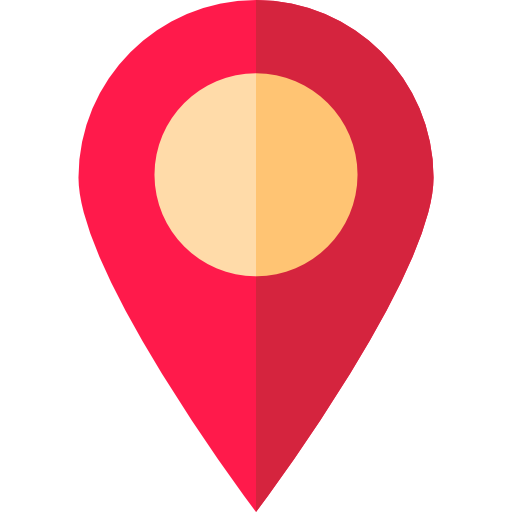
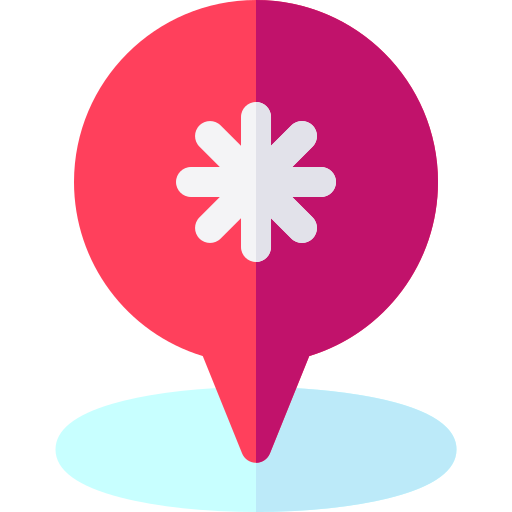
Suggested marker customized

diff --git a/client/src/pages/weatherApi/WeatherScore/WeatherScore.js b/client/src/pages/weatherApi/WeatherScore/WeatherScore.js
@@ -43,11 +43,11 @@ function WeatherScore(props) {
   const CalculateOverallScore = () => {
     let score = 0 ;
     if (
-      (weatherOptionsData.sunny == true && actualWeatherData.overall == "Clear") ||
-      (weatherOptionsData.cloudy == true && actualWeatherData.overall == "Clouds") ||
-      (weatherOptionsData.rain == true && actualWeatherData.overall == "Rain") ||
-      (weatherOptionsData.thunder == true && actualWeatherData.overall == "Thunderstorm") ||
-      (weatherOptionsData.storm == true && actualWeatherData.overall == "Snow")
+      (weatherOptionsData.sunny === true && actualWeatherData.overall === "Clear") ||
+      (weatherOptionsData.cloudy === true && actualWeatherData.overall === "Clouds") ||
+      (weatherOptionsData.rain === true && actualWeatherData.overall === "Rain") ||
+      (weatherOptionsData.thunder === true && actualWeatherData.overall === "Thunderstorm") ||
+      (weatherOptionsData.storm === true && actualWeatherData.overall === "Snow")
     ) {
       score = 100 ;
     }
@@ -62,20 +62,20 @@ function WeatherScore(props) {
     let score = 0 ;
 
     if (
-      (weatherOptionsData.exHot == true && actualWeatherData.temperature >= 35) ||
-      (weatherOptionsData.hot == true && actualWeatherData.temperature >= 30 && actualWeatherData.temperature < 35) ||
-      (weatherOptionsData.averageT == true && actualWeatherData.temperature >= 20 && actualWeatherData.temperature < 30) ||
-      (weatherOptionsData.cold == true && actualWeatherData.temperature >= 15 && actualWeatherData.temperature < 20) ||
-      (weatherOptionsData.exCold == true && actualWeatherData.temperature < 15)
+      (weatherOptionsData.exHot === true && actualWeatherData.temperature >= 35) ||
+      (weatherOptionsData.hot === true && actualWeatherData.temperature >= 30 && actualWeatherData.temperature < 35) ||
+      (weatherOptionsData.averageT === true && actualWeatherData.temperature >= 20 && actualWeatherData.temperature < 30) ||
+      (weatherOptionsData.cold === true && actualWeatherData.temperature >= 15 && actualWeatherData.temperature < 20) ||
+      (weatherOptionsData.exCold === true && actualWeatherData.temperature < 15)
     ) {
       score = 100 ;
     }
     else if (
-      (weatherOptionsData.exHot == true && actualWeatherData.temperature >= 30 && actualWeatherData.temperature < 35) ||
-      (weatherOptionsData.hot == true && (actualWeatherData.temperature >= 35) || (actualWeatherData.temperature >= 20 && actualWeatherData.temperature < 30)) ||
-      (weatherOptionsData.averageT == true && (actualWeatherData.temperature >= 20 && actualWeatherData.temperature < 30) || (actualWeatherData.temperature >= 15 && actualWeatherData.temperature < 20)) ||
-      (weatherOptionsData.cold == true && (actualWeatherData.temperature >= 30 && actualWeatherData.temperature < 35) || (actualWeatherData.temperature < 15)) ||
-      (weatherOptionsData.exCold == true && actualWeatherData.temperature >= 15 && actualWeatherData.temperature < 20)
+      (weatherOptionsData.exHot === true && actualWeatherData.temperature >= 30 && actualWeatherData.temperature < 35) ||
+      (weatherOptionsData.hot === true && (actualWeatherData.temperature >= 35) || (actualWeatherData.temperature >= 20 && actualWeatherData.temperature < 30)) ||
+      (weatherOptionsData.averageT === true && (actualWeatherData.temperature >= 20 && actualWeatherData.temperature < 30) || (actualWeatherData.temperature >= 15 && actualWeatherData.temperature < 20)) ||
+      (weatherOptionsData.cold === true && (actualWeatherData.temperature >= 30 && actualWeatherData.temperature < 35) || (actualWeatherData.temperature < 15)) ||
+      (weatherOptionsData.exCold === true && actualWeatherData.temperature >= 15 && actualWeatherData.temperature < 20)
     ) {
       score = 50;
     }
@@ -88,9 +88,9 @@ function WeatherScore(props) {
   const CalculateWindScore = () => {
     let score = 0;
     if (
-      (weatherOptionsData.heavyW == true && actualWeatherData.windSpeed >= 17) ||
-      (weatherOptionsData.averageW == true && actualWeatherData.windSpeed < 17 && actualWeatherData.windSpeed >= 8) ||
-      (weatherOptionsData.slightW == true && actualWeatherData.windSpeed < 8)
+      (weatherOptionsData.heavyW === true && actualWeatherData.windSpeed >= 17) ||
+      (weatherOptionsData.averageW === true && actualWeatherData.windSpeed < 17 && actualWeatherData.windSpeed >= 8) ||
+      (weatherOptionsData.slightW === true && actualWeatherData.windSpeed < 8)
     ) {
       score = 100;
     }

diff --git a/client/src/pages/googleMapApi/Map.jsx b/client/src/pages/googleMapApi/Map.jsx
@@ -225,10 +225,9 @@ export default function Map(latlng, props,mapLocation ) {
           lat: attraction.geometry.location.lat(),
           lng: attraction.geometry.location.lng(),
         }}
-        icon={{
-          url: "https://maps.google.com/mapfiles/ms/icons/red-dot.png",
-        }}
+        icon={{ url: require("../../../src/assets/suggested_pin.png"), scaledSize: { width: 32, height: 32 } }}
         onClick={() => handleMarkerClick(attraction)}
+        animation={selectedPlace && selectedPlace.place_id === attraction.place_id ? window.google.maps.Animation.BOUNCE : null}
       >
         {selectedPlace && selectedPlace.place_id === attraction.place_id && (
           <InfoWindowF
@@ -237,7 +236,6 @@ export default function Map(latlng, props,mapLocation ) {
               lng: selectedPlace.geometry.location.lng(),
             }}
             onCloseClick={() => setSelectedPlace(null)}
-            
           >
             <div>
               <img
@@ -245,15 +243,16 @@ export default function Map(latlng, props,mapLocation ) {
                 alt="Place Icon"
                 style={{ width: "20px", height: "20px", margin: "8px" }}
               />
-              <span 
-              style={{fontWeight:500 ,fontFamily:'poppins' }}>
-                {selectedPlace.name}</span>
+              <span style={{ fontWeight: 500, fontFamily: 'poppins' }}>
+                {selectedPlace.name}
+              </span>
             </div>
           </InfoWindowF>
         )}
       </Marker>
     ));
   };
+  
   
   
 
@@ -834,6 +833,7 @@ export default function Map(latlng, props,mapLocation ) {
       </button> */}
       {/* {console.log(markers)} */}
       {console.log(curr)}
+
     </>
   );
 }

diff --git a/client/src/pages/googleMapApi/Multiplesearch.jsx b/client/src/pages/googleMapApi/Multiplesearch.jsx
@@ -52,7 +52,7 @@ function Multiplesearch (props)  {
   const tripDate = new Date('2023-06-11');
 
   //pass changed location from child components to this cmponent
-  const [globalLocation, setGlobalLocation] = useState("Kandy");
+  const [globalLocation, setGlobalLocation] = useState("Sri Lanka");
 
   const pull_newGlobalLocation = (newLocation) => {
     setGlobalLocation(newLocation);
@@ -64,7 +64,8 @@ function Multiplesearch (props)  {
    // props.optimizeroute(true);
     
   }
-
+//Harshana
+  
   function handleSuggest() {
     props.sendSuggestlocations(searchdata);
   }

diff --git a/client/src/pages/gallery/Gallery.jsx b/client/src/pages/gallery/Gallery.jsx
@@ -17,7 +17,7 @@ const Gallery = () => {
   const [map, setMap] = useState(null);
 
   //pull changed location from child components to this cmponent
-  const [globalLocation, setGlobalLocation] = useState('Kandy');
+  const [globalLocation, setGlobalLocation] = useState('Sri Lanka');
 
   const pull_newGlobalLocation = (newLocation) => {
     setGlobalLocation(newLocation);

diff --git a/client/src/pages/weatherApi/WeatherScore/PostTripDayLocationList.js b/client/src/pages/weatherApi/WeatherScore/PostTripDayLocationList.js
@@ -8,7 +8,7 @@ export default function PostTripDayLocationList(props){
           key={item} //
           currentCity={item}
           tripID={props.tripID}
-          tripDate={props.tripDate}
+          tripDate={props.tripDate}          
         />
       ));
     
